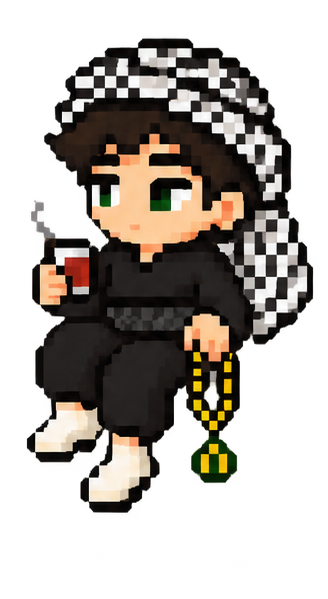
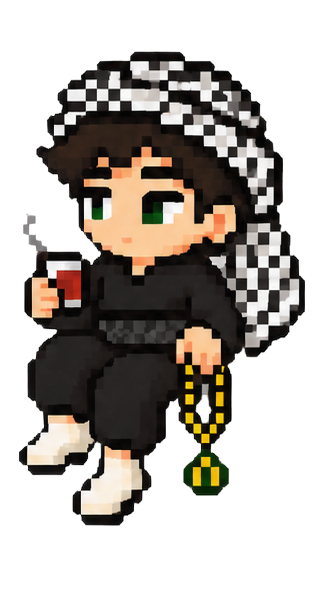
Fix mascot baseline jitter, slow animation, fix martyr bonus typo (8->7)
Claude-Session: https://claude.ai/code/session_01DZUXUCTemd3wJnvV3QgAiT

diff --git a/src/data/infoCards.js b/src/data/infoCards.js
@@ -132,7 +132,7 @@ export const MARTYR_RULES = {
       heading: 'چوارەم: بۆ خوێندنی ئەهلی داشکاندنی 50% دەکرێت.',
       lines: [
         '- بە 5 نمرە کەمتر دەچێتە کۆلێژەکانی (پزیشکی گشتی، پزیشکی ددان، دەرمانسازی).',
-        '- بۆ بەشەکانی تر 8 نمرە.',
+        '- بۆ بەشەکانی تر 7 نمرە.',
       ],
     },
     {

diff --git a/src/components/Mascot.jsx b/src/components/Mascot.jsx
@@ -9,7 +9,7 @@ const FRAME_H = 599
 
 // How long each frame stays on screen during the idle loop, in ms. Slow and
 // calm — he's just sitting there sipping tea, not doing anything urgent.
-const FRAME_INTERVAL_MS = 450
+const FRAME_INTERVAL_MS = 1600
 
 // Display size on screen — scaled down from the raw pixel-art resolution so
 // he reads as a small companion perched at the corner of the score card,
